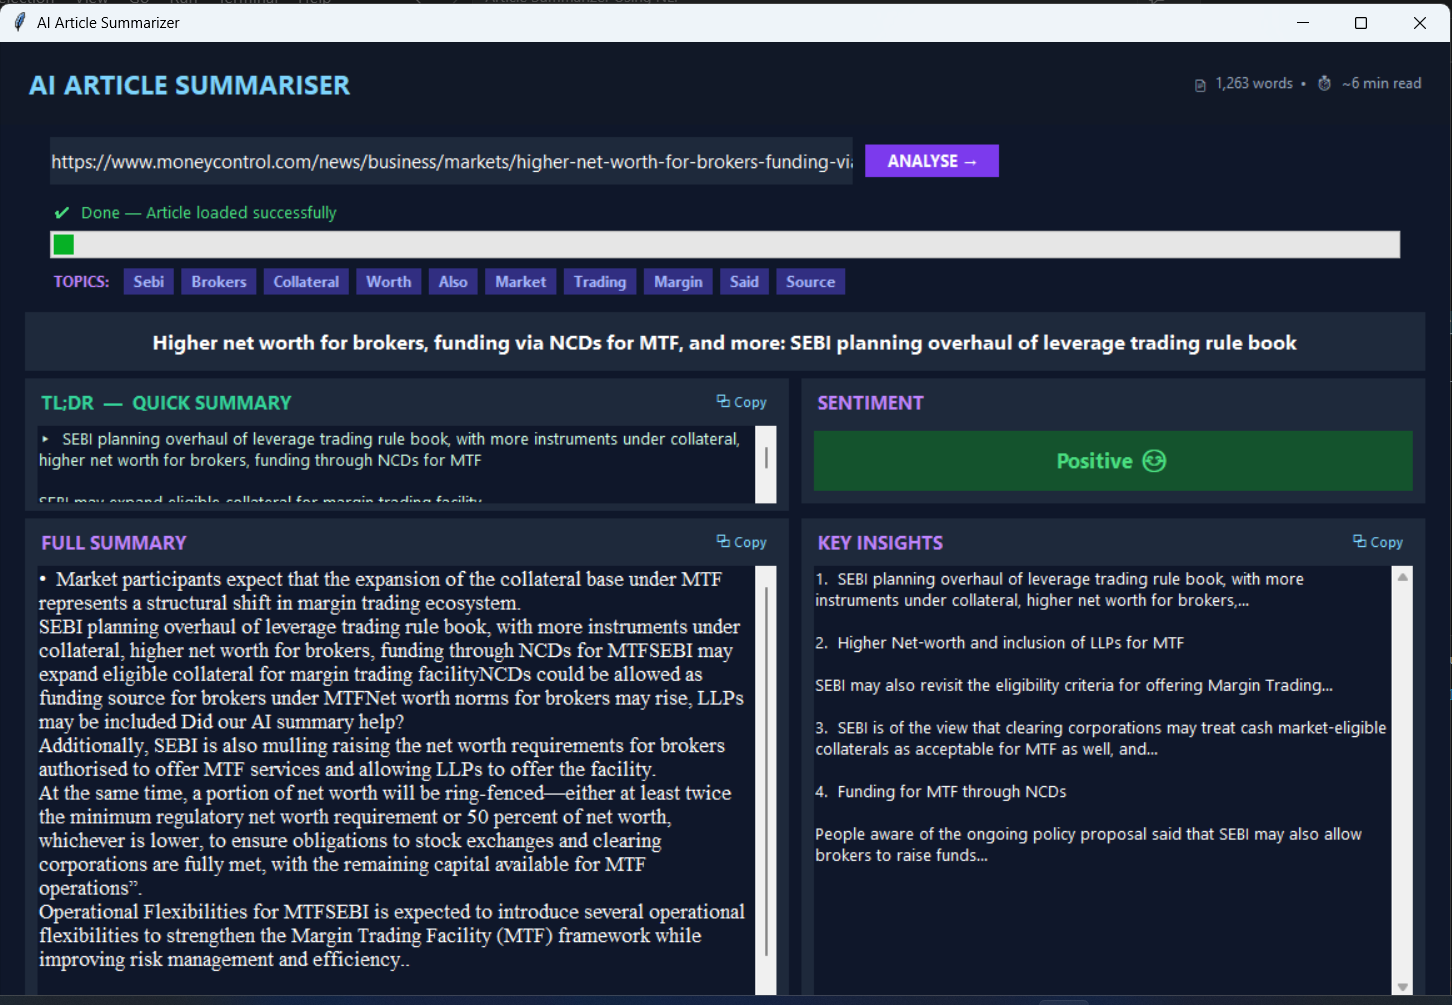
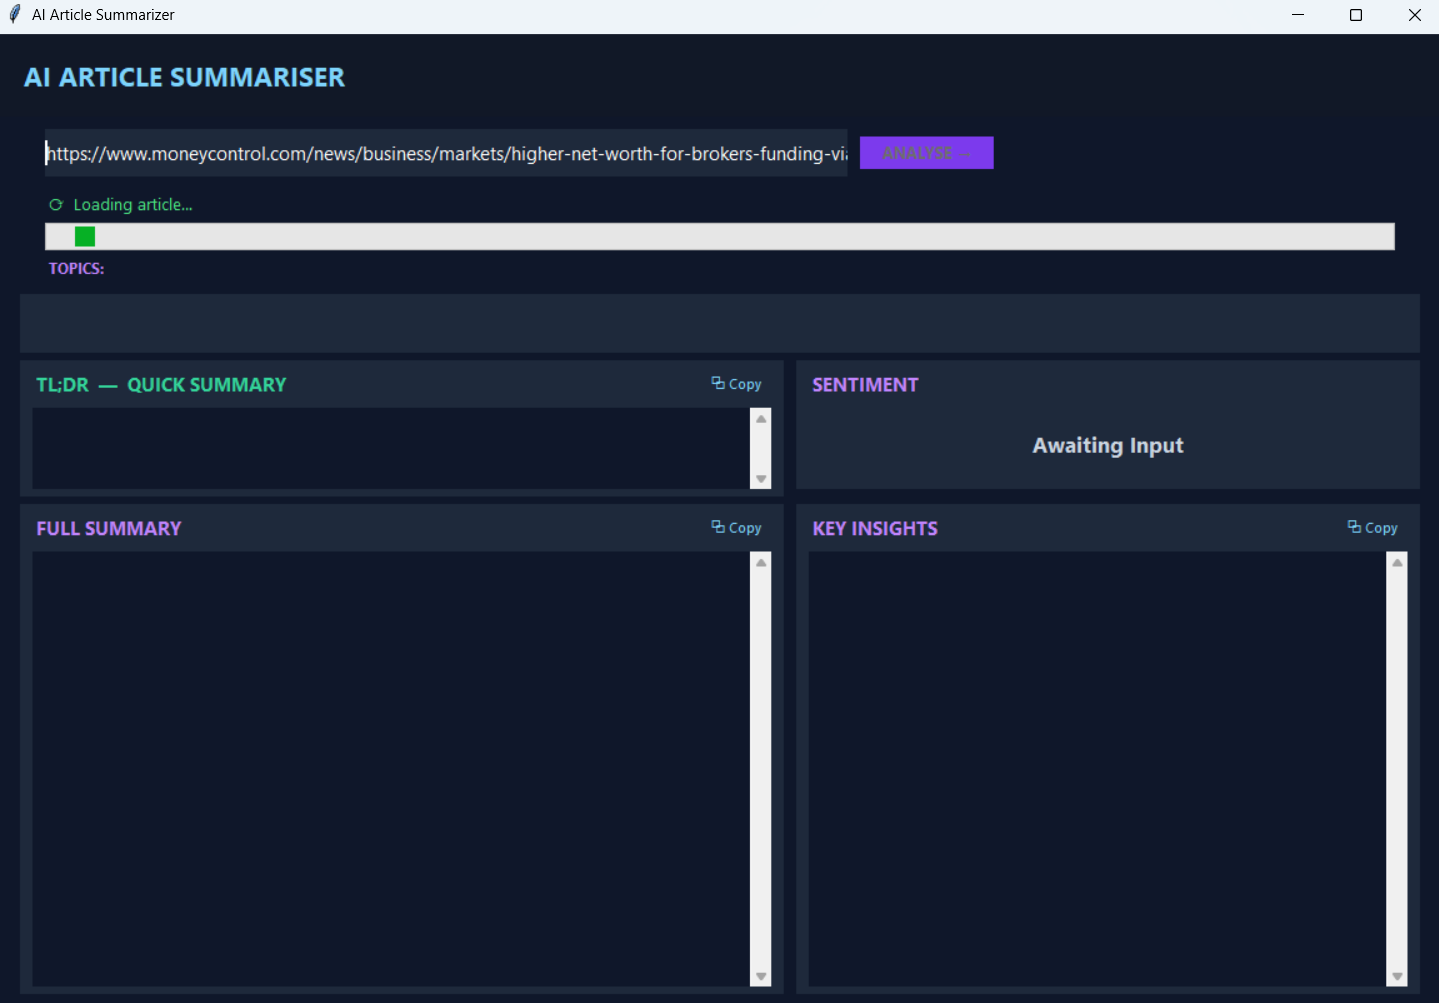
added new ss

diff --git a/README.md b/README.md
@@ -45,6 +45,10 @@ A modern **Article Summarizer GUI Application** built completely in **Python** u
 <p align="center">
   <img src="images/gui2.png" width="800"/>
 </p>
+
+<p align="center">
+  <img src="images/gui3.png" width="800"/>
+</p>
 ---
 
 ## 🧠 How It Works